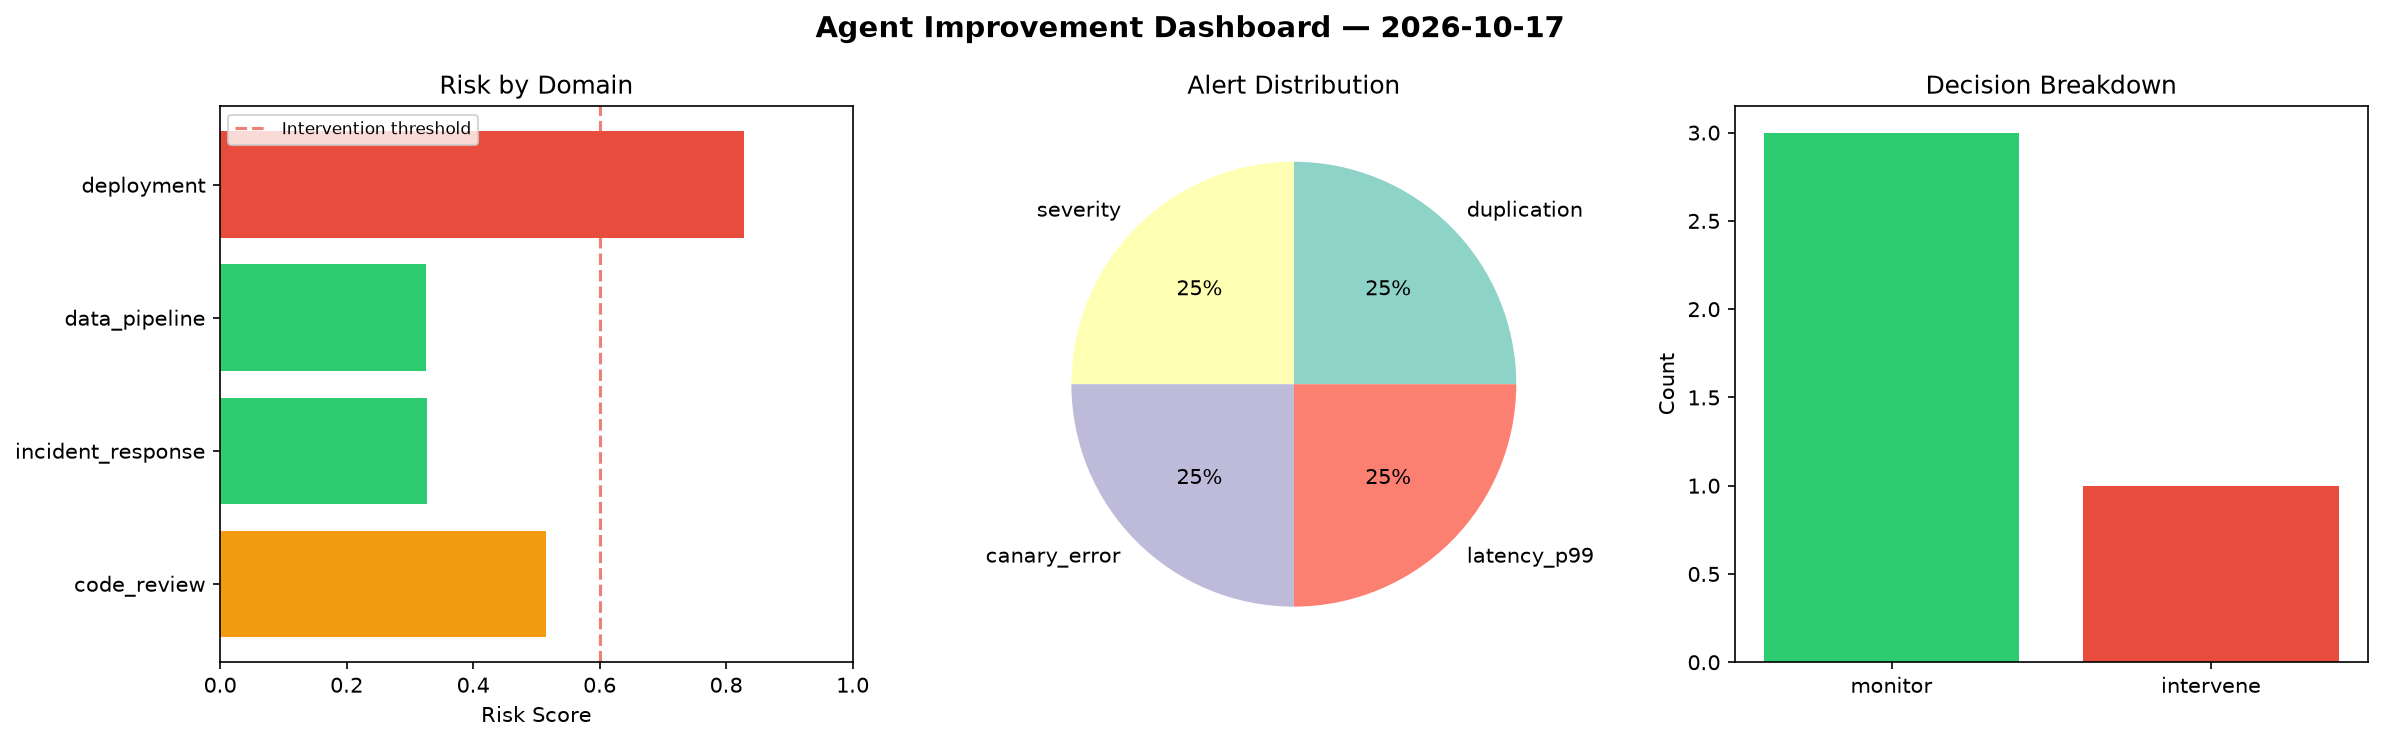
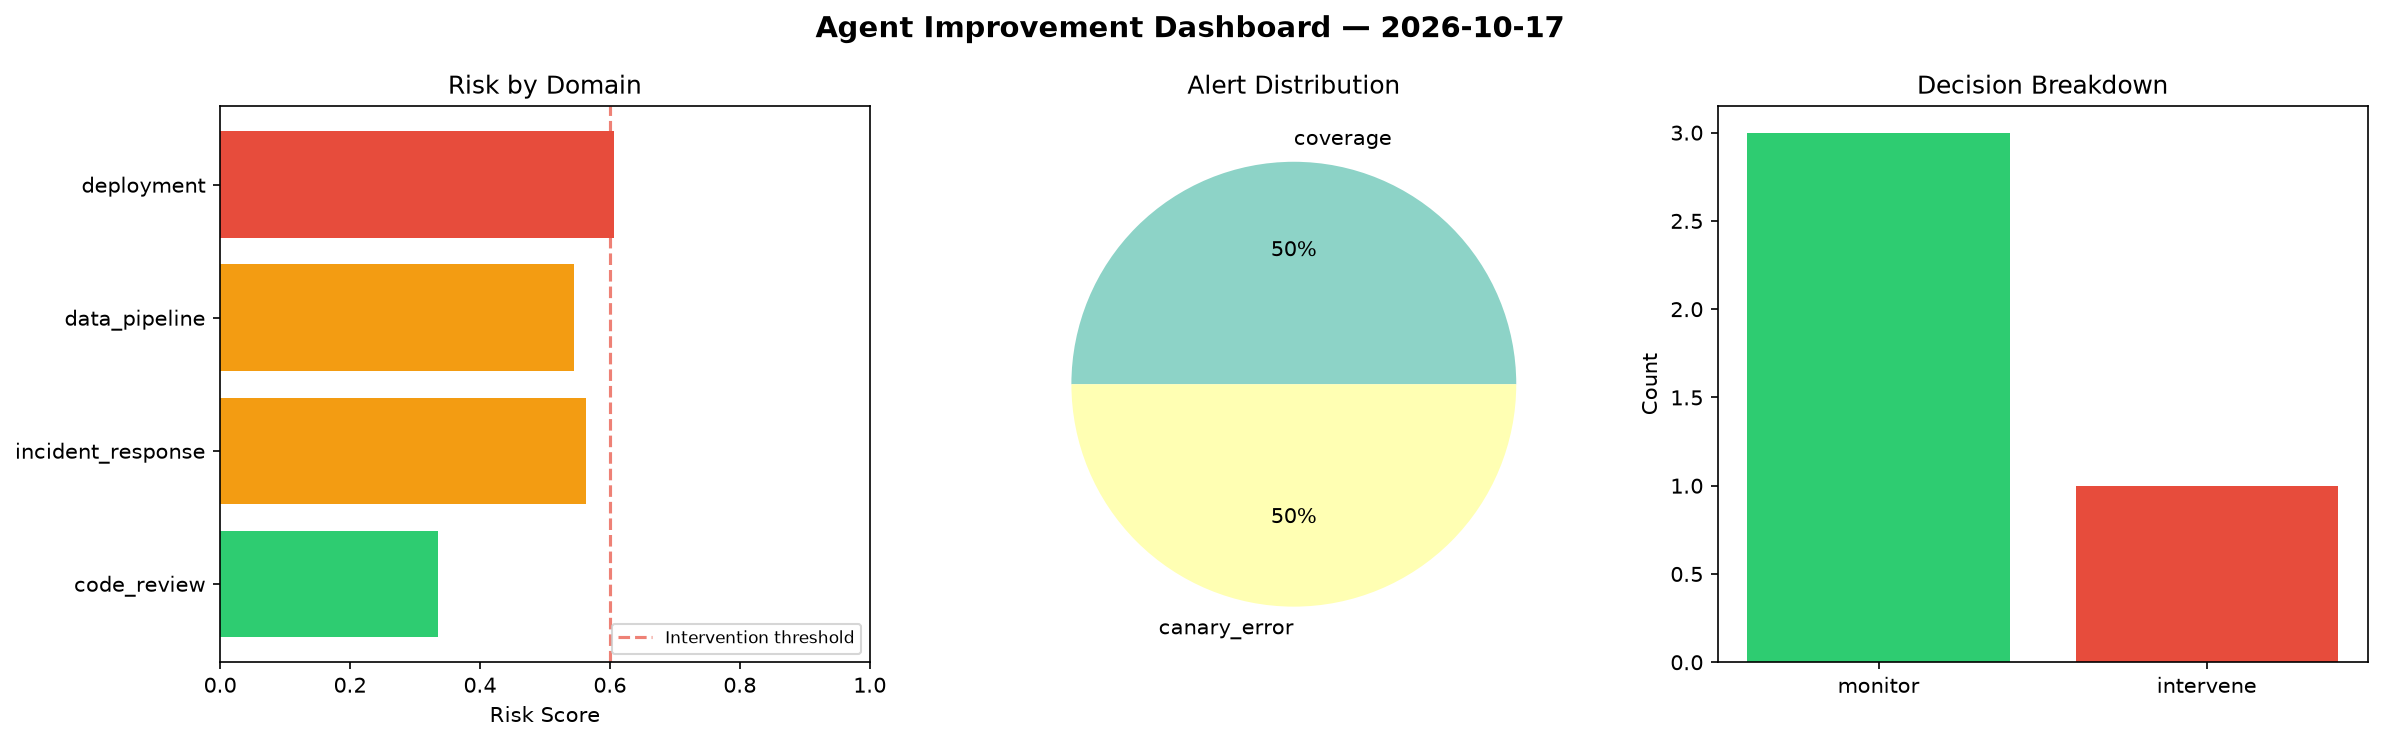
agent-improvement: daily cycle 2026-10-17T17:11

diff --git a/logs/2026-10-17.md b/logs/2026-10-17.md
@@ -1,6 +1,6 @@
 # Agent Improvement Report — 2026-10-17
 
-**Cycle ID:** `4dd49f35` | **Avg Risk:** 0.499 | **Interventions:** 1/4
+**Cycle ID:** `99c93a39` | **Avg Risk:** 0.5121 | **Interventions:** 1/4
 
 ![Dashboard](2026-10-17_dashboard.png)
 
@@ -10,18 +10,18 @@
 
 | Domain | Risk Score | Decision | Alerts |
 |--------|-----------|----------|--------|
-| code_review | 0.5152 | monitor | duplication |
-| incident_response | 0.3271 | monitor | severity |
-| data_pipeline | 0.325 | monitor | none |
-| deployment | 0.8289 | intervene | canary_error, latency_p99 |
+| code_review | 0.335 | monitor | coverage |
+| incident_response | 0.5636 | monitor | none |
+| data_pipeline | 0.5442 | monitor | none |
+| deployment | 0.6056 | intervene | canary_error |
 
 ## Delta vs Yesterday
 
 | Domain | Today | Yesterday | Change |
 |--------|-------|-----------|--------|
-| code_review | 0.5152 | 0.2932 | 📈 75.7% |
-| incident_response | 0.3271 | 0.2987 | 📈 9.5% |
-| data_pipeline | 0.325 | 0.3805 | 📉 -14.6% |
-| deployment | 0.8289 | 0.6449 | 📈 28.5% |
+| code_review | 0.335 | 0.2932 | 📈 14.3% |
+| incident_response | 0.5636 | 0.2987 | 📈 88.7% |
+| data_pipeline | 0.5442 | 0.3805 | 📈 43.0% |
+| deployment | 0.6056 | 0.6449 | 📉 -6.1% |
 
 **Refinement:** `{'adjustment': 'tighten_thresholds', 'trend': 'degrading', 'window': 4}`
